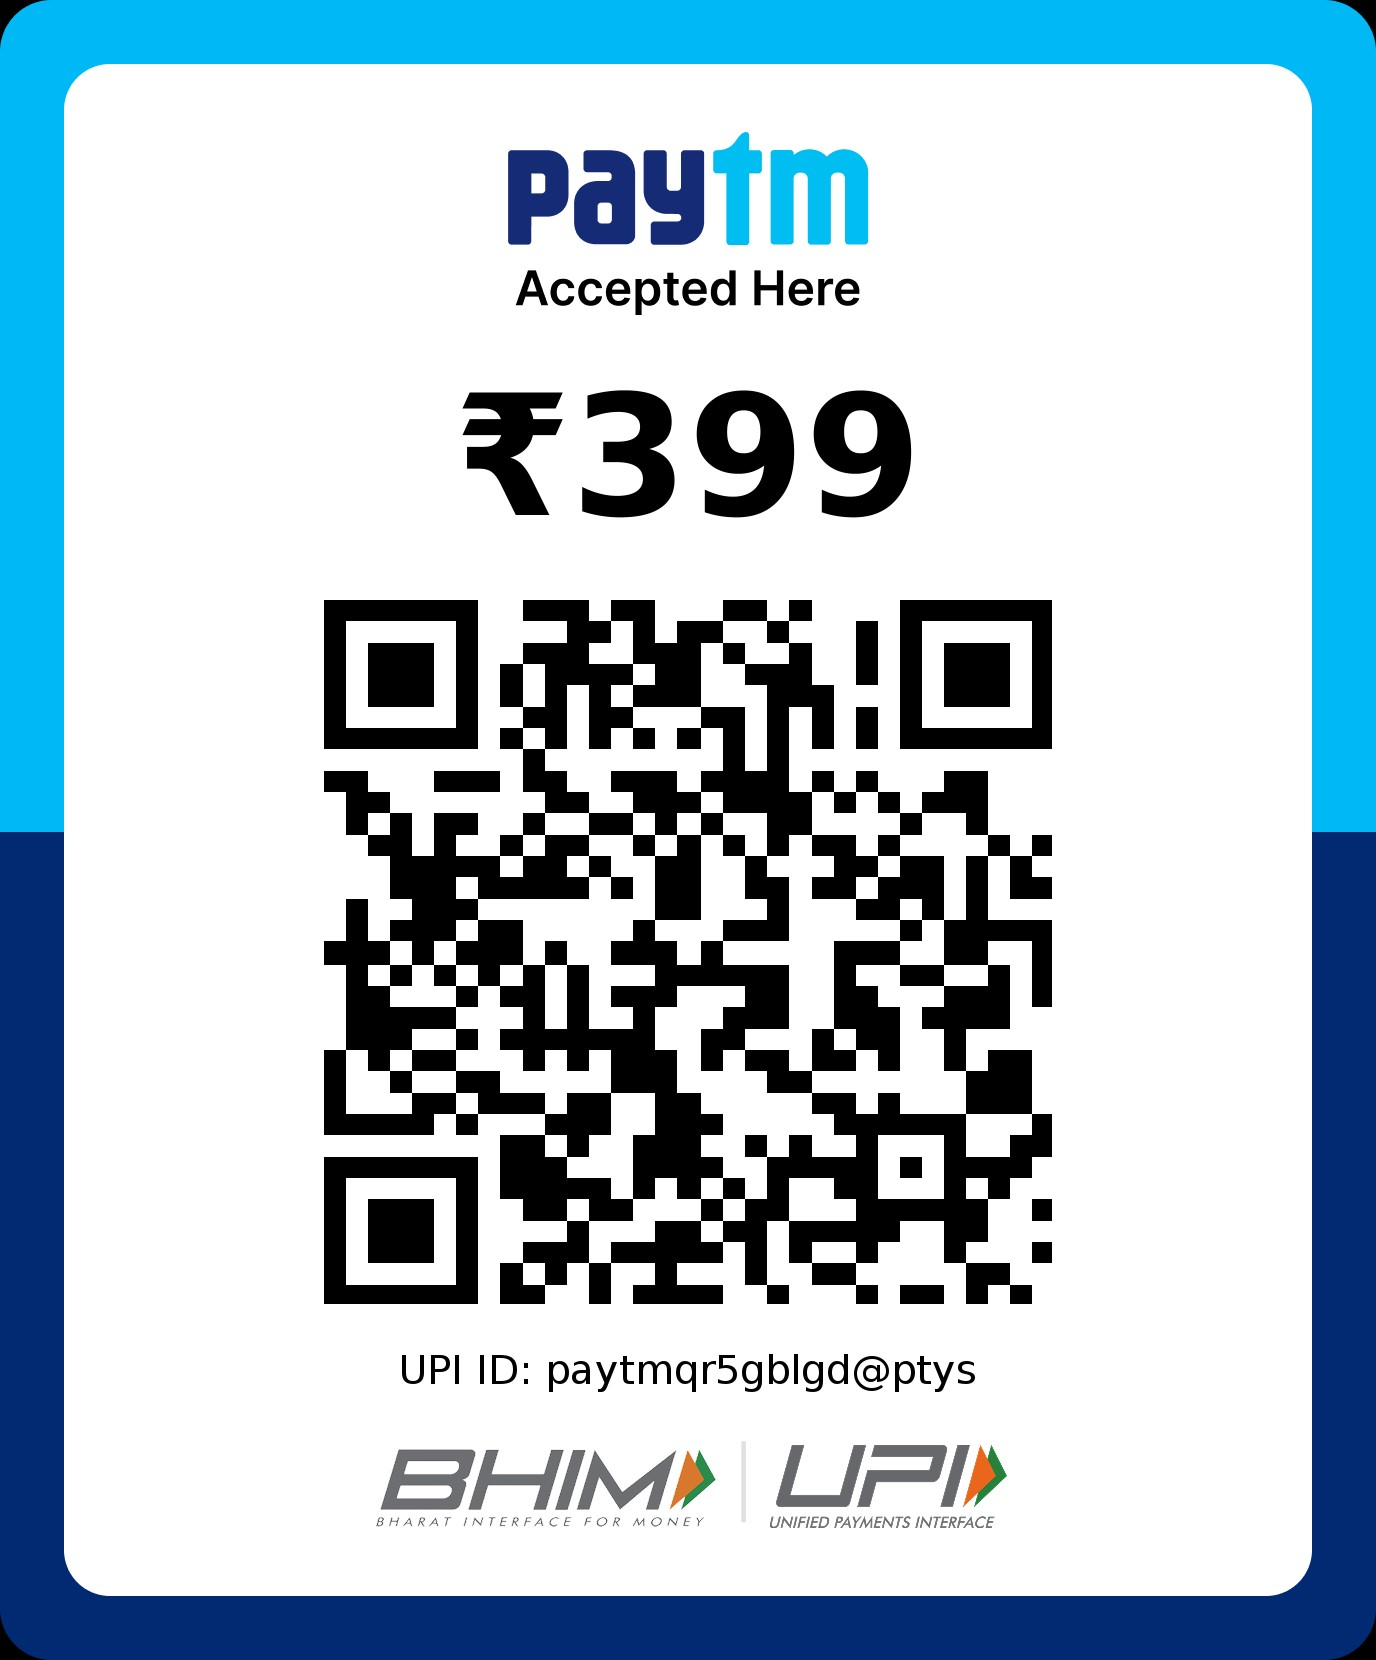
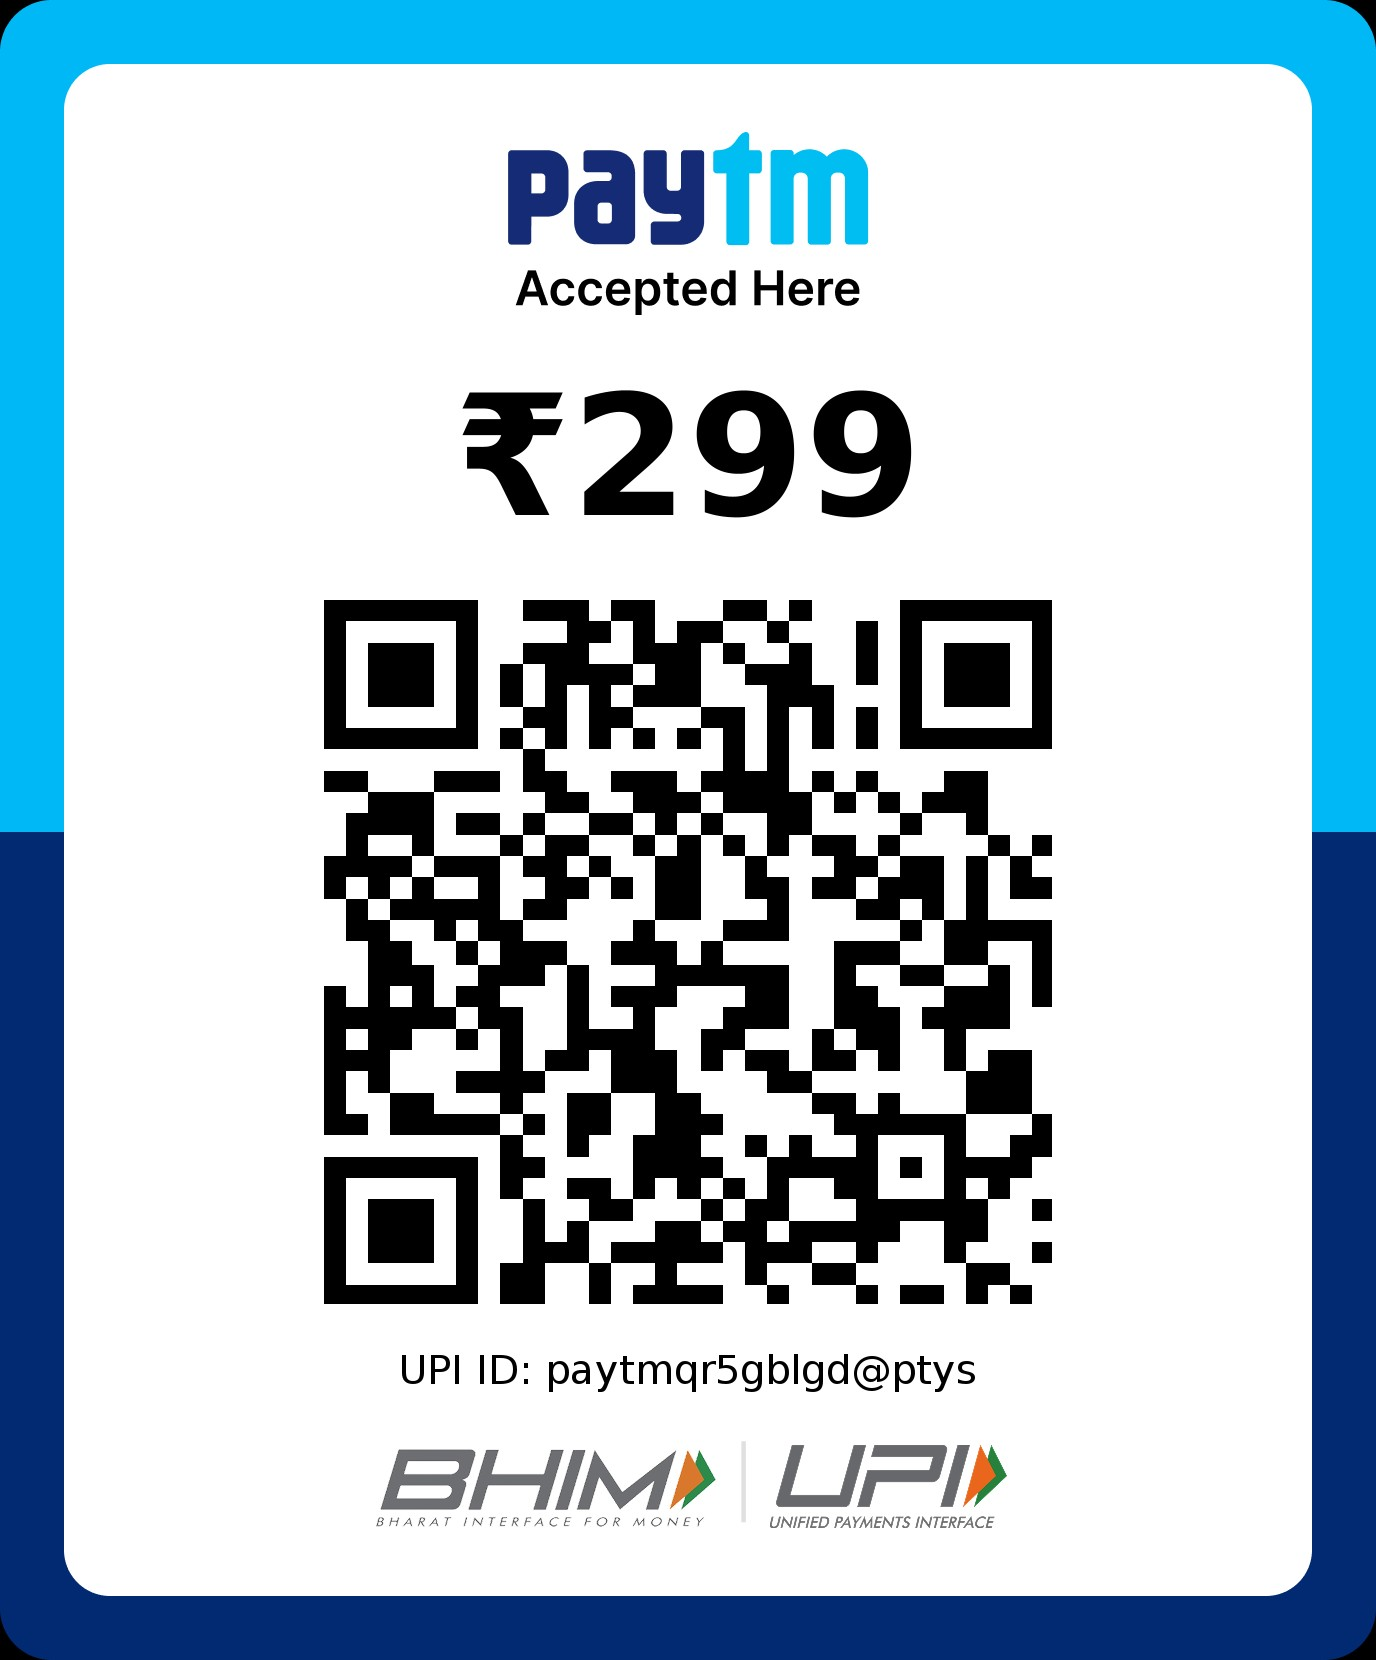
Updated project

Changed region(s): [[0.2188, 0.4608, 0.4375, 0.7988], [0.4062, 0.2458, 0.5, 0.3072], [0.5625, 0.7373, 0.5938, 0.7681]]

diff --git a/public/index.html b/public/index.html
@@ -229,7 +229,7 @@
   <p class="section-sub">Complete digital service — from application to receipt delivery.<span class="section-sub-hi">आवेदन से लेकर रसीद तक — पूरी डिजिटल सेवा</span></p>
   <div class="features-grid">
     <div class="feature-card"><div class="feature-icon" style="background:#fef3c7">📝</div><div class="feature-title">Easy Application</div><div class="feature-hi">आसान आवेदन</div><div class="feature-desc">Agents fill forms for customers with Aadhaar upload, signature, photograph — all in one place.</div></div>
-    <div class="feature-card"><div class="feature-icon" style="background:#d1fae5">💳</div><div class="feature-title">UPI Payment</div><div class="feature-hi">UPI भुगतान</div><div class="feature-desc">Pay ₹399 via PhonePe, GPay or Paytm. Upload screenshot instantly. Owner verifies digitally.</div></div>
+    <div class="feature-card"><div class="feature-icon" style="background:#d1fae5">💳</div><div class="feature-title">UPI Payment</div><div class="feature-hi">UPI भुगतान</div><div class="feature-desc">Pay ₹299 via PhonePe, GPay or Paytm. Upload screenshot instantly. Owner verifies digitally.</div></div>
     <div class="feature-card"><div class="feature-icon" style="background:#e0e7ff">🔍</div><div class="feature-title">Live Tracking</div><div class="feature-hi">लाइव स्टेटस</div><div class="feature-desc">Agents track all their submitted applications — Pending, Approved, Rejected — from their dashboard.</div></div>
     <div class="feature-card"><div class="feature-icon" style="background:#fce7f3">💬</div><div class="feature-title">Owner Comments</div><div class="feature-hi">मालिक का संदेश</div><div class="feature-desc">Owner can send comments to agents if any correction is needed in the application.</div></div>
     <div class="feature-card"><div class="feature-icon" style="background:#f0fdf4">🧾</div><div class="feature-title">Digital Receipt</div><div class="feature-hi">डिजिटल रसीद</div><div class="feature-desc">Once approved, owner uploads receipt. Agent downloads it directly from their dashboard.</div></div>
@@ -245,7 +245,7 @@
     <p class="section-sub" style="color:#94a3b8">From agent registration to customer receipt — everything is streamlined.<span class="section-sub-hi" style="color:#c4b5fd">एजेंट रजिस्ट्रेशन से लेकर रसीद तक — सब कुछ आसान</span></p>
     <div class="steps-grid">
       <div class="step-card"><div class="step-num">1</div><div class="step-title">Agent Registers</div><div class="step-hi">एजेंट रजिस्टर करें</div><div class="step-desc">Agent signs up on the portal. Owner reviews and approves the agent account.</div></div>
-      <div class="step-card"><div class="step-num">2</div><div class="step-title">Submit Application</div><div class="step-hi">आवेदन जमा करें</div><div class="step-desc">Agent fills customer details, uploads documents, pays ₹399 and submits the form.</div></div>
+      <div class="step-card"><div class="step-num">2</div><div class="step-title">Submit Application</div><div class="step-hi">आवेदन जमा करें</div><div class="step-desc">Agent fills customer details, uploads documents, pays ₹299 and submits the form.</div></div>
       <div class="step-card"><div class="step-num">3</div><div class="step-title">Owner Verifies</div><div class="step-hi">मालिक जांच करें</div><div class="step-desc">Owner verifies payment, checks documents, approves or sends comment to agent.</div></div>
       <div class="step-card"><div class="step-num">4</div><div class="step-title">Receipt Delivered</div><div class="step-hi">रसीद मिलती है</div><div class="step-desc">Owner uploads receipt. Agent downloads it from their dashboard instantly.</div></div>
     </div>
@@ -256,7 +256,7 @@
 <div class="info-strip">
   <h2>Ready to get started?</h2>
   <span class="hi">शुरू करने के लिए तैयार हैं?</span>
-  <p>Agents register for free. No monthly fees. Pay only ₹399 per application.</p>
+  <p>Agents register for free. No monthly fees. Pay only ₹299 per application.</p>
   <div class="info-btns">
     <a href="agent.html" class="info-btn-primary">👤 Agent Register / Login</a>
     <a href="owner.html" class="info-btn-outline">🔐 Owner Dashboard</a>
@@ -280,7 +280,7 @@
     <div class="footer-links">
       <h4>Contact</h4>
       <a href="#">By Avdhesh Kumar</a>
-      <a href="tel:8858199381">📞 8858199381</a>
+      <a href="tel:8115929004">📞 8115929004</a>
     </div>
   </div>
   <div class="footer-bottom">

diff --git a/public/agent.html b/public/agent.html
@@ -559,13 +559,13 @@ header{background:var(--navy);position:sticky;top:0;z-index:100;box-shadow:0 4px
               <div class="pay-box">
                 <h3>Scan & Pay via UPI</h3>
                 <span class="pay-hindi-label">UPI से स्कैन करें और भुगतान करें</span>
-                <div class="pay-amount">₹399</div>
+                <div class="pay-amount">₹299</div>
                 <p style="font-size:12px;color:var(--muted)">PAN Card Service Fee / पैन कार्ड सेवा शुल्क</p>
                 <div class="qr-wrap"><img src="qr.jpeg" alt="QR"></div>
                 <div class="qr-upi">UPI ID: <strong>paytmqr5gblgd@ptys</strong> | <strong>Avdhesh Kumar</strong></div>
                 <div class="pay-steps">
                   <div class="pay-step"><div class="step-n">1</div><div class="step-t">Scan QR with PhonePe / GPay / Paytm<span class="hi">QR कोड स्कैन करें</span></div></div>
-                  <div class="pay-step"><div class="step-n">2</div><div class="step-t">Pay <strong>₹399</strong> and take screenshot<span class="hi">₹399 भुगतान करें और स्क्रीनशॉट लें</span></div></div>
+                  <div class="pay-step"><div class="step-n">2</div><div class="step-t">Pay <strong>₹299</strong> and take screenshot<span class="hi">₹299 भुगतान करें और स्क्रीनशॉट लें</span></div></div>
                   <div class="pay-step"><div class="step-n">3</div><div class="step-t">Upload screenshot below<span class="hi">नीचे स्क्रीनशॉट अपलोड करें</span></div></div>
                 </div>
               </div>
@@ -1033,7 +1033,7 @@ function renderApps() {
         <div class="app-row"><span class="app-label">Application Status</span><span class="pill ${apCls}">${apLbl}</span></div>
         <div class="app-row"><span class="app-label">Payment Status</span><span class="pill ${payCls}">${payLbl}</span></div>
         <div class="app-row"><span class="app-label">City / State</span><span style="font-size:13px">${a.city}, ${a.state}</span></div>
-        <div class="app-row"><span class="app-label">Fee</span><span style="font-size:14px;font-weight:700;color:var(--success)">₹${a.paymentAmount||399}</span></div>
+        <div class="app-row"><span class="app-label">Fee</span><span style="font-size:14px;font-weight:700;color:var(--success)">₹${a.paymentAmount||299}</span></div>
         ${commentHtml}
         ${receiptHtml}
         ${editBtn}

diff --git a/server.js b/server.js
@@ -129,7 +129,7 @@ const applicationSchema = new mongoose.Schema({
   aadhaarBack:       { type: String },
   signature:         { type: String },
   photograph:        { type: String },
-  paymentAmount:     { type: Number, default: 399 },
+  paymentAmount:     { type: Number, default: 299 },
   paymentScreenshot: { type: String },
   paymentStatus:     { type: String, default: 'Unpaid' },
   status:            { type: String, default: 'Pending' },
@@ -481,8 +481,8 @@ app.get('/api/stats/payments', async (req, res) => {
       verified:       verified.length,
       pending:        pending.length,
       unpaid:         all.filter(a => a.paymentStatus === 'Unpaid').length,
-      totalCollected: verified.reduce((s, a) => s + (a.paymentAmount || 399), 0),
-      pendingAmount:  pending.reduce((s, a) => s + (a.paymentAmount || 399), 0)
+      totalCollected: verified.reduce((s, a) => s + (a.paymentAmount || 299), 0),
+      pendingAmount:  pending.reduce((s, a) => s + (a.paymentAmount || 299), 0)
     });
   } catch (err) {
     res.status(500).json({ error: err.message });

diff --git a/public/owner.html b/public/owner.html
@@ -693,7 +693,7 @@ function openModal(id) {
     <div class="pay-verify-panel">
       <div class="pay-verify-title">💳 Payment — ${a.paymentStatus==='Verified'?'✅ Verified':a.paymentStatus==='Rejected'?'❌ Rejected':'⏳ Awaiting'}</div>
       <div class="pay-screenshot-box"><img src="${paySrc}" onclick="window.open('${paySrc}','_blank')"></div>
-      <div style="font-size:12px;color:var(--muted);margin-bottom:12px">Amount: <strong style="color:var(--green)">₹${a.paymentAmount||399}</strong></div>
+      <div style="font-size:12px;color:var(--muted);margin-bottom:12px">Amount: <strong style="color:var(--green)">₹${a.paymentAmount||299}</strong></div>
       ${(!locked && a.paymentStatus!=='Verified') ? `
       <div class="pay-actions">
         <button class="btn-verify"     onclick="updatePayment('${a._id}','Verified')">✅ Verify Payment</button>
